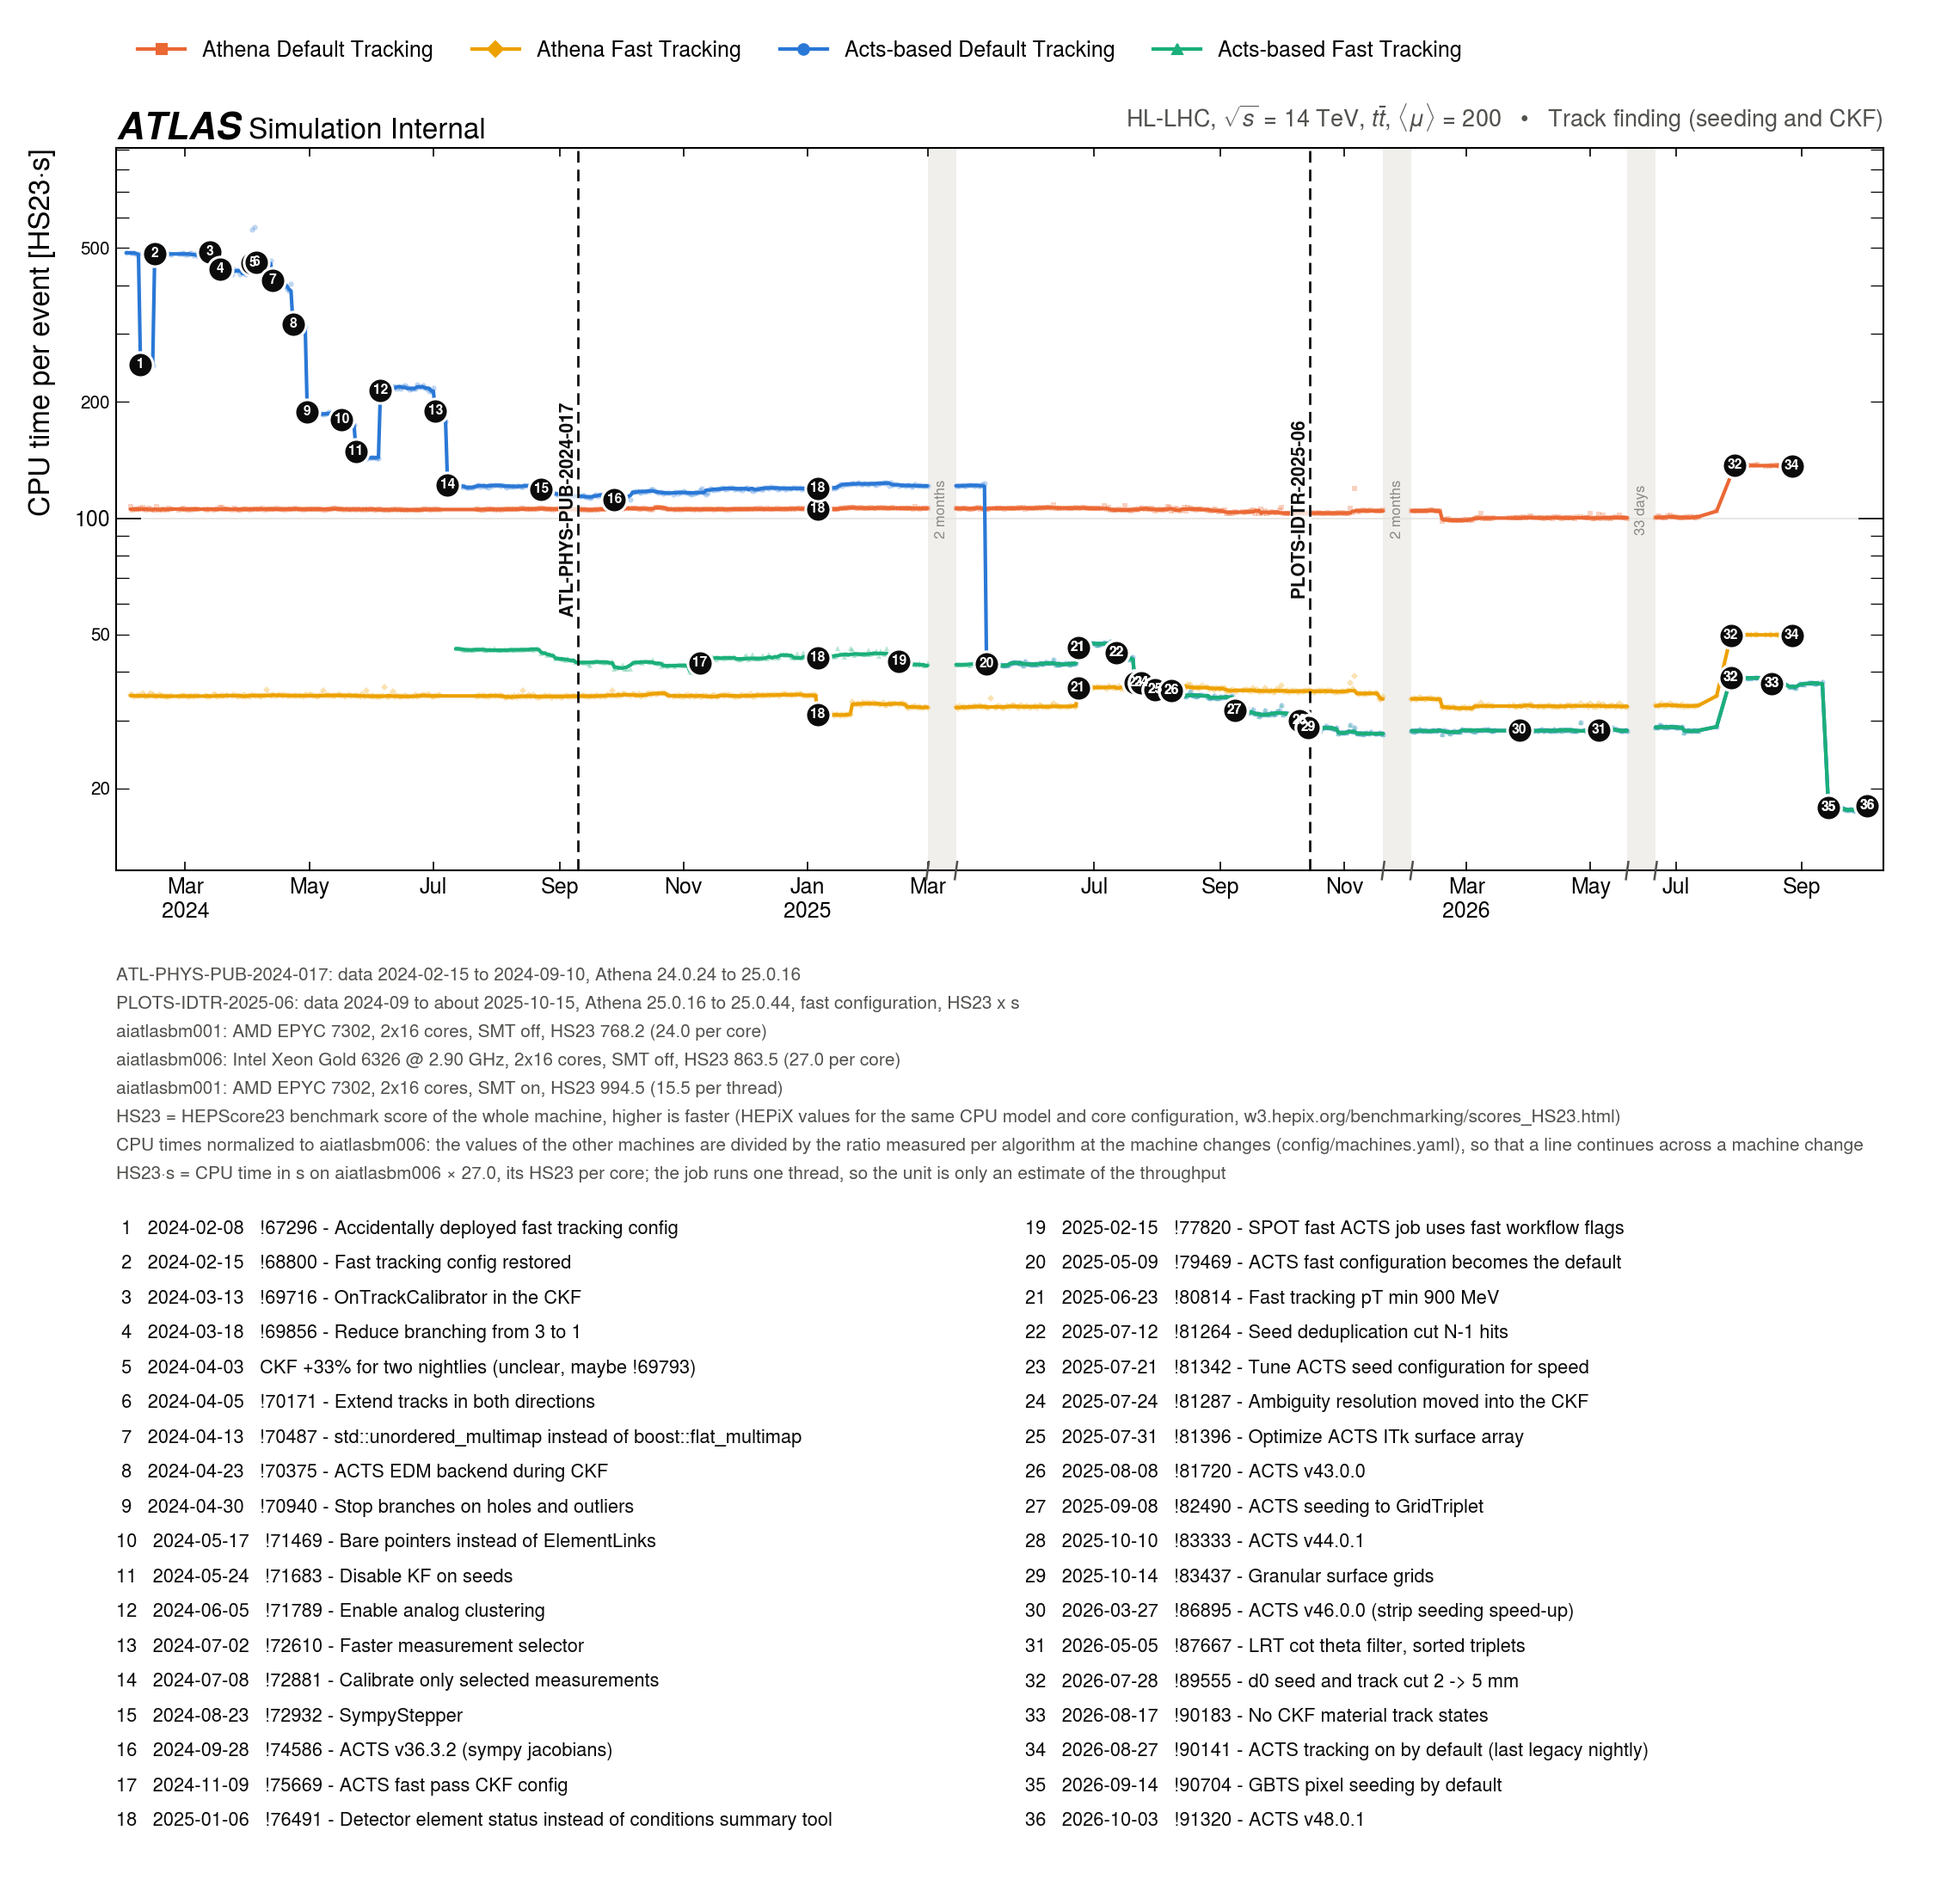
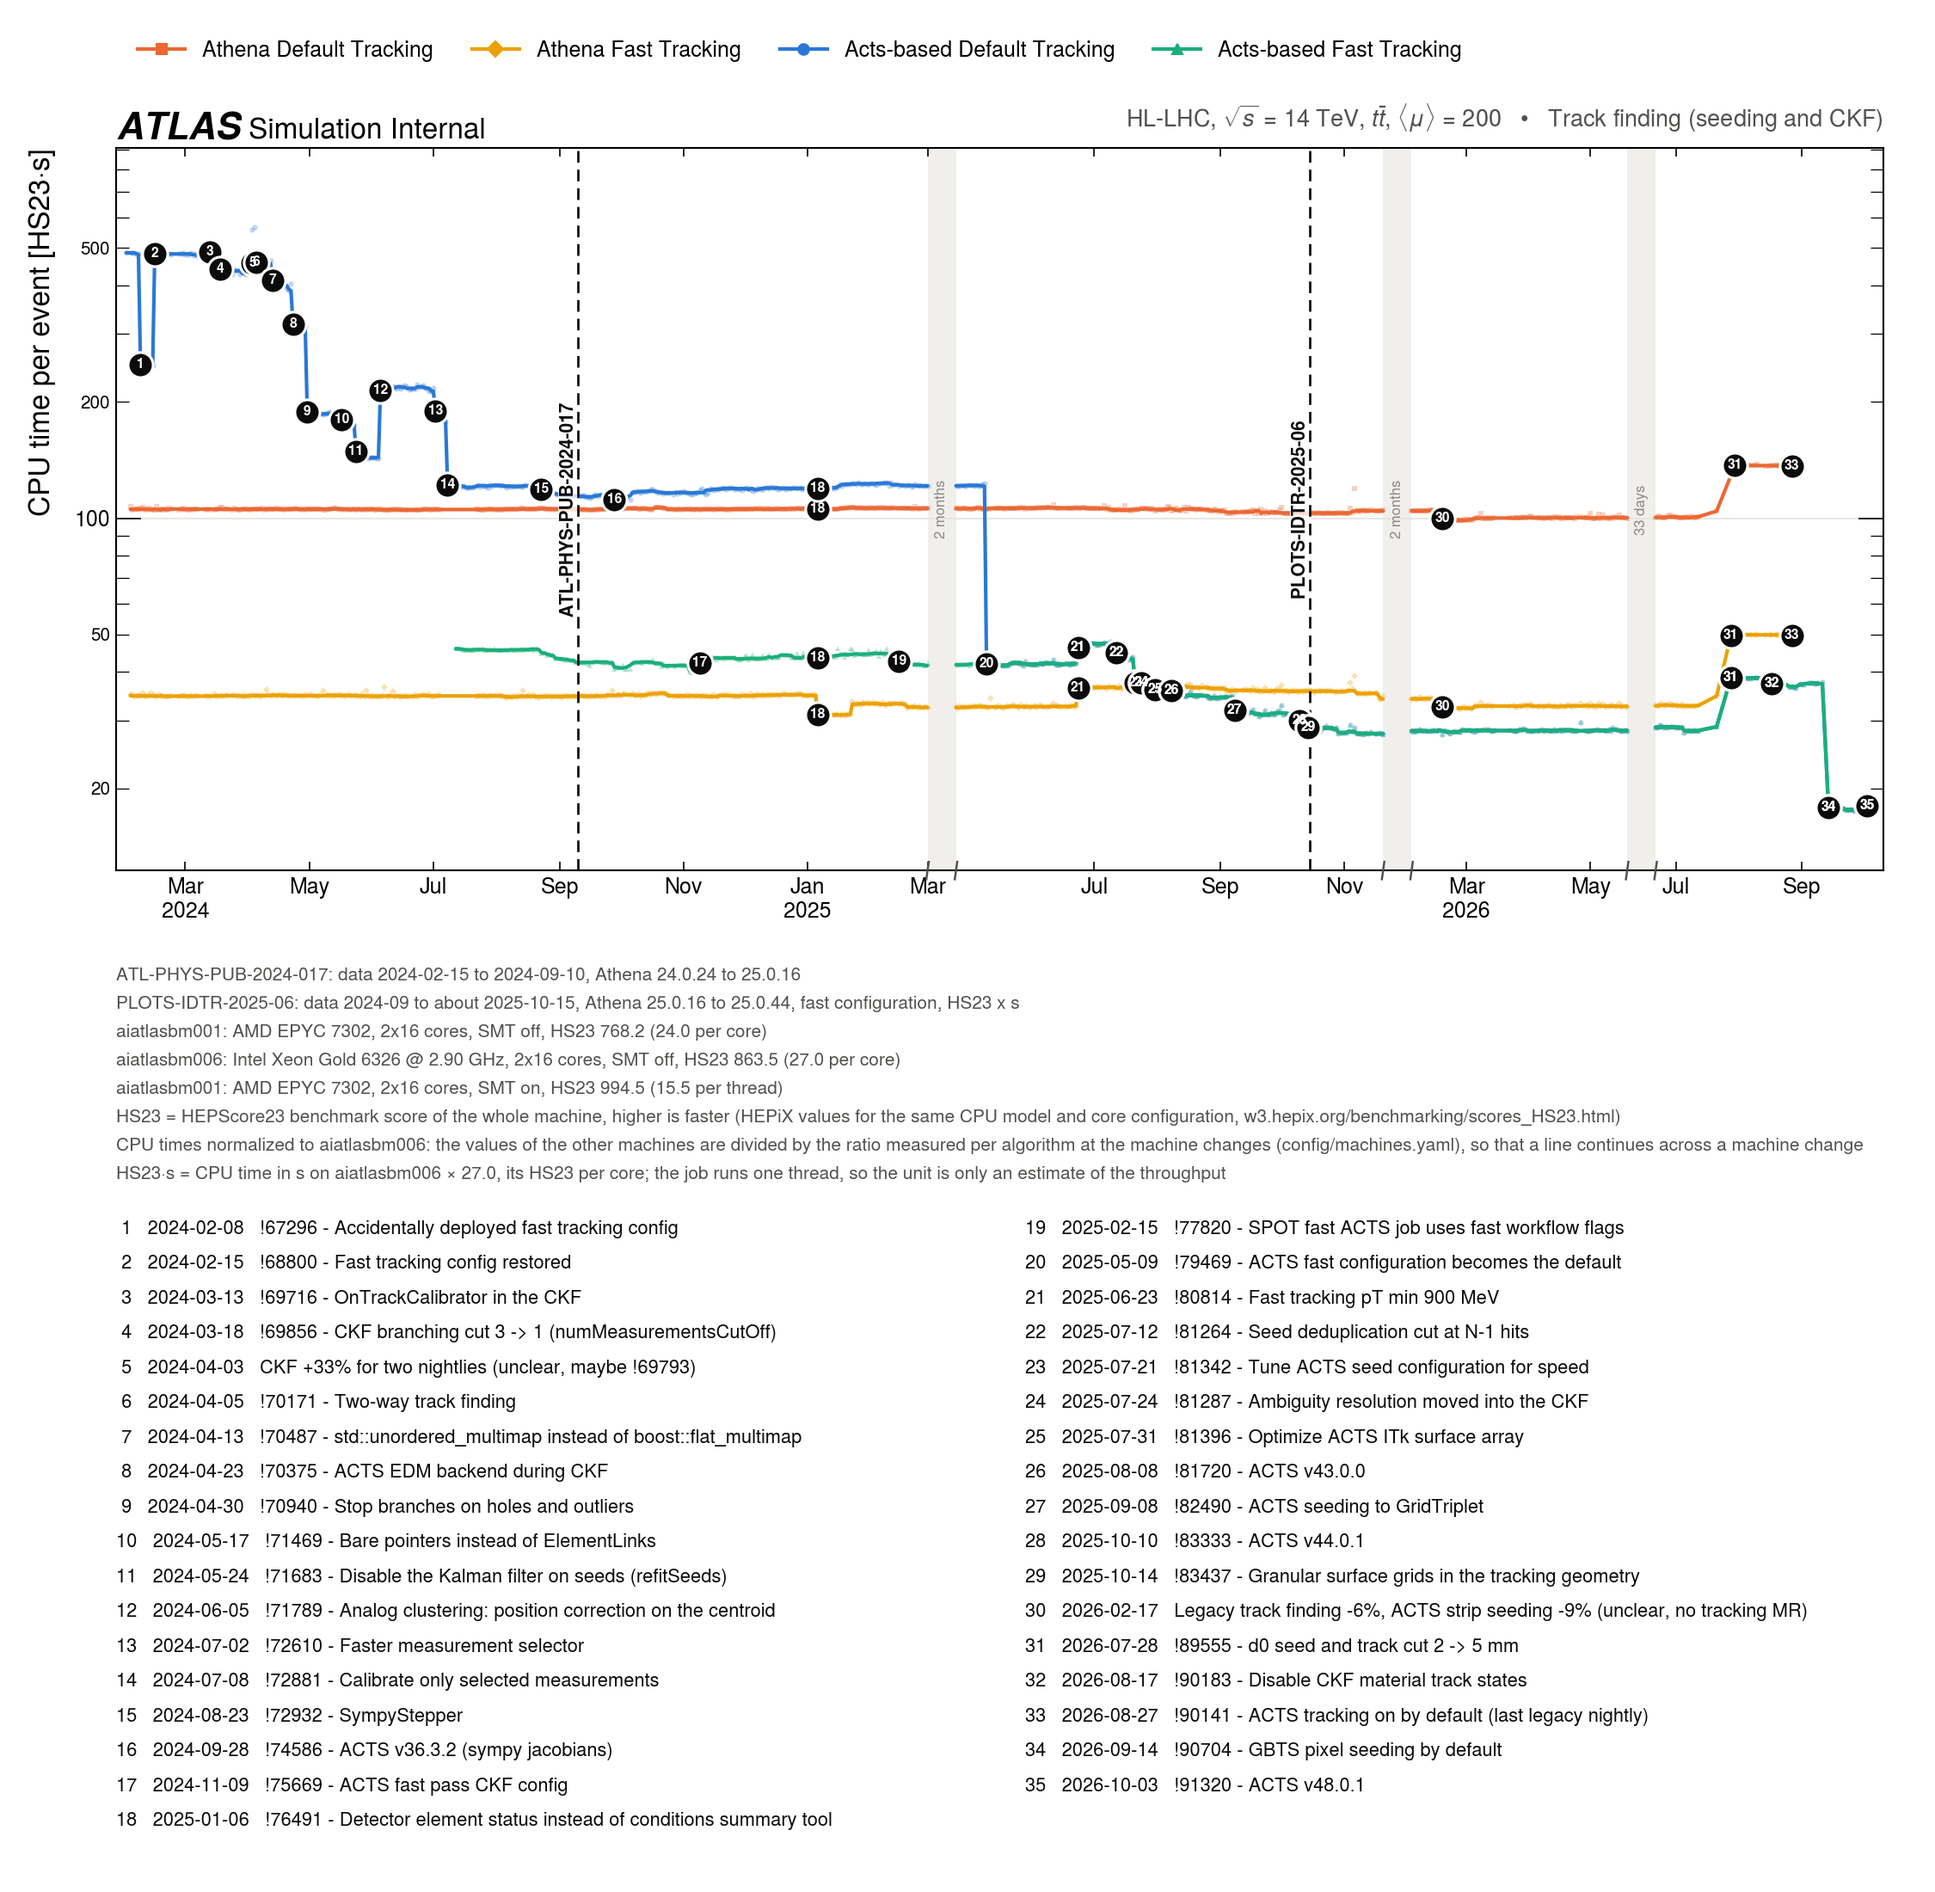
show a part annotation only where the part has data; improve the annotation texts
A part annotation belongs to a sum only if the part has a value in that
flavor around the date: the strip seeding is a part of the ACTS default
track finding, but it does not run in the fast configuration, so the ACTS
v46.0.0 strip seeding speed-up no longer shows on the fast line.

The annotation texts spell out abbreviations (KF, FE, SP, MTJ) and follow
the merge request titles more closely. The step of 2026-02-17 also marks
the legacy track finding (-6%): the nightly has no tracking MR, no externals
change and the same ACTS version, so the cause stays unclear.

Fix the lint error of the CI (two blank lines in the plotter).

Claude-Session: https://claude.ai/code/session_019eX9tgjMzsAdBJ779KSB3S

diff --git a/spotter/plotter.py b/spotter/plotter.py
@@ -19,7 +19,7 @@ from spotter.machines import (
     normalize_point,
     reference_machine,
 )
-from spotter.points import load_fetcher_config, matches, transitive_parts
+from spotter.points import PointData, load_fetcher_config, matches, transitive_parts
 
 
 # one fixed color and marker for each flavor, so that a flavor looks the same in every plot
@@ -258,7 +258,6 @@ def plot_timeseries(
             lx, ly = axis.split_lines(df.index, smooth(df, metric, args.smooth_window))
         ax.plot(lx, ly, "-", lw=2, color=color, zorder=3, solid_capstyle="round")
 
-
     # y axis from zero, because the reader compares magnitudes; a logarithmic
     # axis for data over more than a factor of about 10
     if args.log_y or config.get("log_y", False):
@@ -387,6 +386,7 @@ def collect_annotations(
     config: dict,
     central: list[dict],
     parts: dict,
+    point_data: PointData,
     data: dict[str, pd.DataFrame],
     axis: CompressedAxis,
     metric: str,
@@ -403,7 +403,9 @@ def collect_annotations(
             continue
         df = data[flavor]
         line = smooth(df, metric, window)
-        candidates = [a for a in central if matches(a, flavor, flavor_config["points"], parts)]
+        candidates = [
+            a for a in central if matches(a, flavor, flavor_config["points"], parts, point_data)
+        ]
         candidates += flavor_config.get("annotations", [])
         for a in candidates:
             d = pd.Timestamp(a["date"])
@@ -545,6 +547,7 @@ def main():
     if args.fetcher_config.exists():
         fetcher_config = load_fetcher_config(args.fetcher_config)
     parts = transitive_parts(fetcher_config) if fetcher_config else {}
+    point_data = PointData(args.data_dir)
     data = read_data(
         args.data_dir, config["flavors"], start_date, end_date,
         None if args.raw else machines, hs23_unit(machines, args), fetcher_config,
@@ -561,7 +564,7 @@ def main():
     keep = [
         pd.Timestamp(a["date"])
         for flavor, f in config["flavors"].items()
-        for a in [a for a in central if matches(a, flavor, f["points"], parts)]
+        for a in [a for a in central if matches(a, flavor, f["points"], parts, point_data)]
         + f.get("annotations", [])
     ]
     keep += [pd.Timestamp(r["date"]) for r in references]
@@ -585,7 +588,9 @@ def main():
     annotations = (
         []
         if args.hide_annotations
-        else collect_annotations(config, central, parts, data, axis, metric, args.smooth_window)
+        else collect_annotations(
+            config, central, parts, point_data, data, axis, metric, args.smooth_window
+        )
     )
     with plt.style.context(hep.style.ATLAS):
         plot_timeseries(

diff --git a/spotter/points.py b/spotter/points.py
@@ -8,6 +8,7 @@ track finding plot and on the full chain plot.
 
 from pathlib import Path
 
+import pandas as pd
 import yaml
 
 
@@ -36,12 +37,44 @@ def transitive_parts(fetcher_config: dict) -> dict[str, dict[str, set[str]]]:
     return result
 
 
-def matches(annotation: dict, flavor: str, point: str, parts: dict | None = None) -> bool:
+class PointData:
+    """The dates with a value of each point of each flavor, read on demand from the point CSVs."""
+
+    def __init__(self, data_dir: Path):
+        self.data_dir = data_dir
+        self.dates: dict[tuple[str, str], set] = {}
+
+    def has_value(self, flavor: str, point: str, date, days: int = 3) -> bool:
+        """Return True if the point of the flavor has a value within `days` of the date."""
+        key = (flavor, point)
+        if key not in self.dates:
+            path = self.data_dir / f"{flavor}_{point}.csv"
+            self.dates[key] = set(pd.to_datetime(pd.read_csv(path)["date"])) if path.exists() else set()
+        d = pd.Timestamp(date)
+        return any(abs((x - d).days) <= days for x in self.dates[key])
+
+
+def matches(
+    annotation: dict,
+    flavor: str,
+    point: str,
+    parts: dict | None = None,
+    point_data: PointData | None = None,
+) -> bool:
     """Return True if an annotation of the central file belongs to a plotted line.
 
     The annotation belongs to the line if it lists the flavor, and the point
-    or one of the parts of the point (`parts` from `transitive_parts`).
+    or one of the parts of the point (`parts` from `transitive_parts`). With
+    `point_data`, a part counts only if it has a value in the flavor around
+    the date of the annotation: the strip seeding is a part of the ACTS
+    default track finding, but it does not run in the fast configuration.
     """
+    if flavor not in annotation.get("flavors", []):
+        return False
     points = set(annotation.get("points", []))
-    related = {point} | (parts or {}).get(flavor, {}).get(point, set())
-    return flavor in annotation.get("flavors", []) and bool(points & related)
+    if point in points:
+        return True
+    related = points & (parts or {}).get(flavor, {}).get(point, set())
+    if point_data is None:
+        return bool(related)
+    return any(point_data.has_value(flavor, p, annotation["date"]) for p in related)

diff --git a/spotter/checks.py b/spotter/checks.py
@@ -27,7 +27,7 @@ from spotter.machines import (
     normalize_point,
     reference_machine,
 )
-from spotter.points import matches, transitive_parts
+from spotter.points import PointData, matches, transitive_parts
 
 
 def point_names(fetcher_config: dict) -> dict[str, list[str]]:
@@ -288,6 +288,7 @@ def find_steps(
 
 def steps_command(args, fetcher_config: dict, annotations: list[dict], machines: list[dict]):
     parts = transitive_parts(fetcher_config)
+    point_data = PointData(args.data_dir)
     rows = []
     for flavor, points in point_names(fetcher_config).items():
         if args.flavors and flavor not in args.flavors:
@@ -309,7 +310,8 @@ def steps_command(args, fetcher_config: dict, annotations: list[dict], machines:
                 known = [
                     a["text"]
                     for a in annotations
-                    if abs((pd.Timestamp(a["date"]) - d).days) <= 1 and matches(a, flavor, point, parts)
+                    if abs((pd.Timestamp(a["date"]) - d).days) <= 1
+                    and matches(a, flavor, point, parts, point_data)
                 ]
                 rows.append({"flavor": flavor, "point": point, **step, "annotation": "; ".join(known)})
     if not rows:
